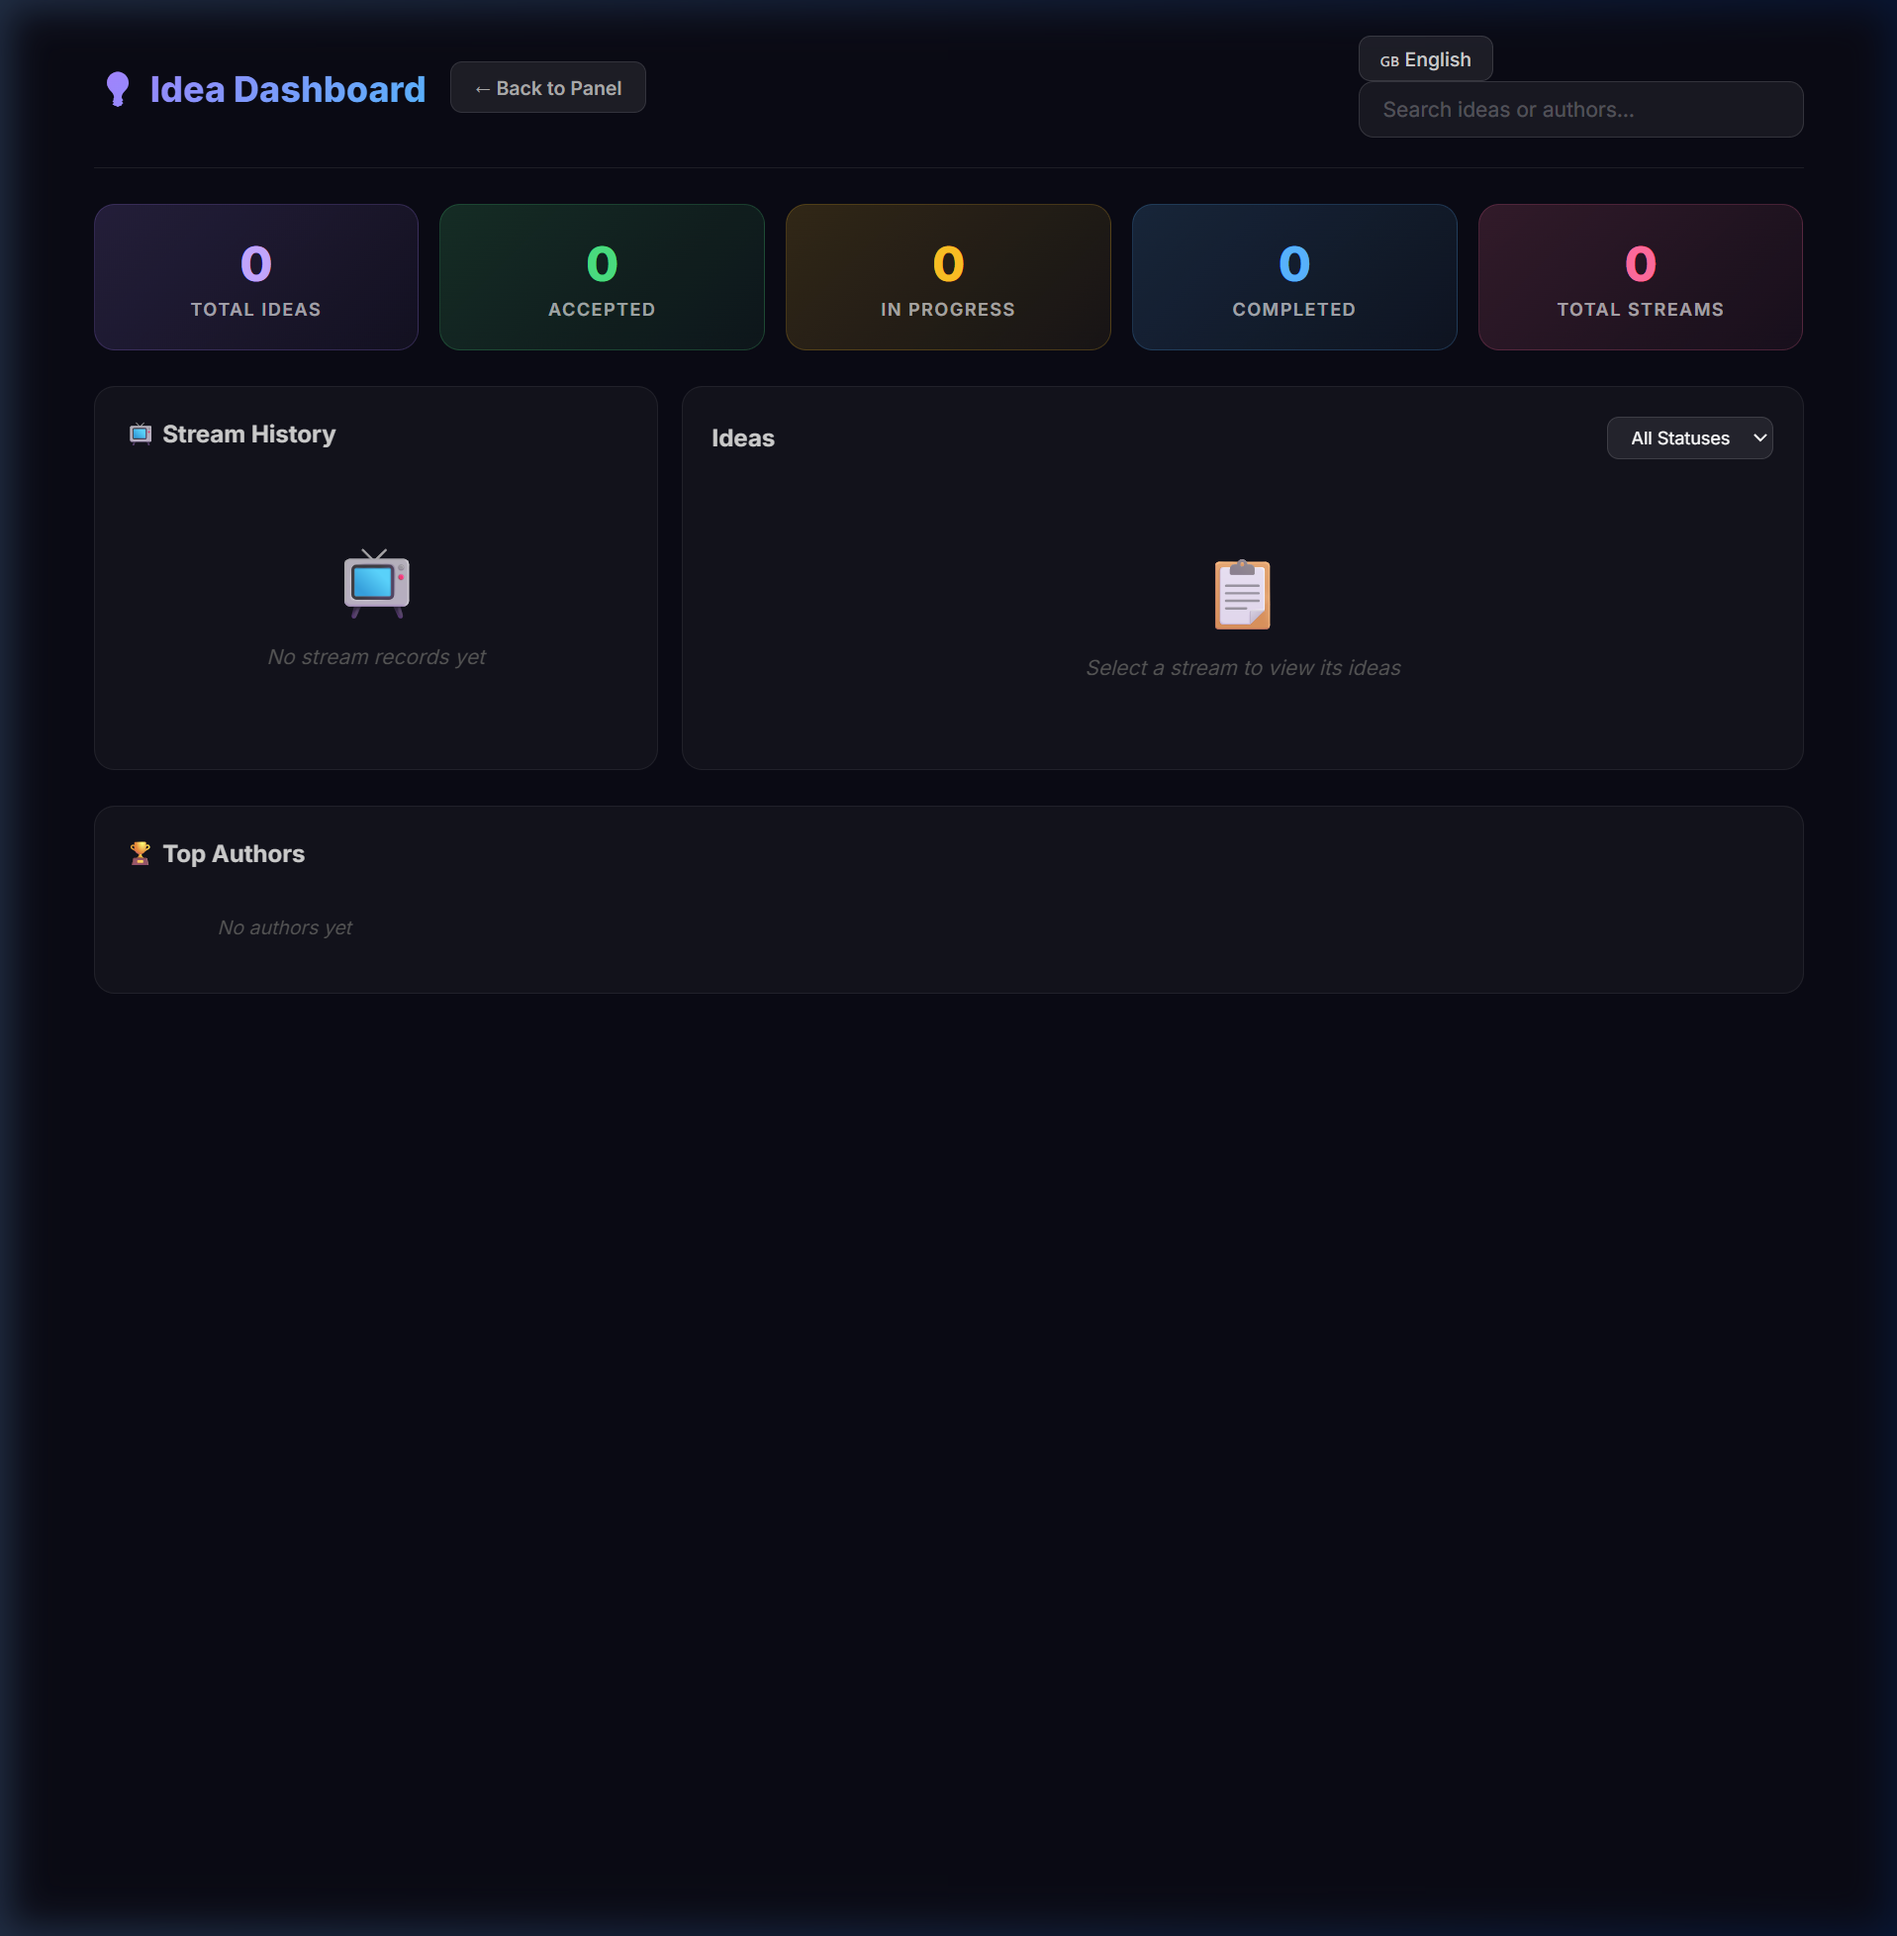
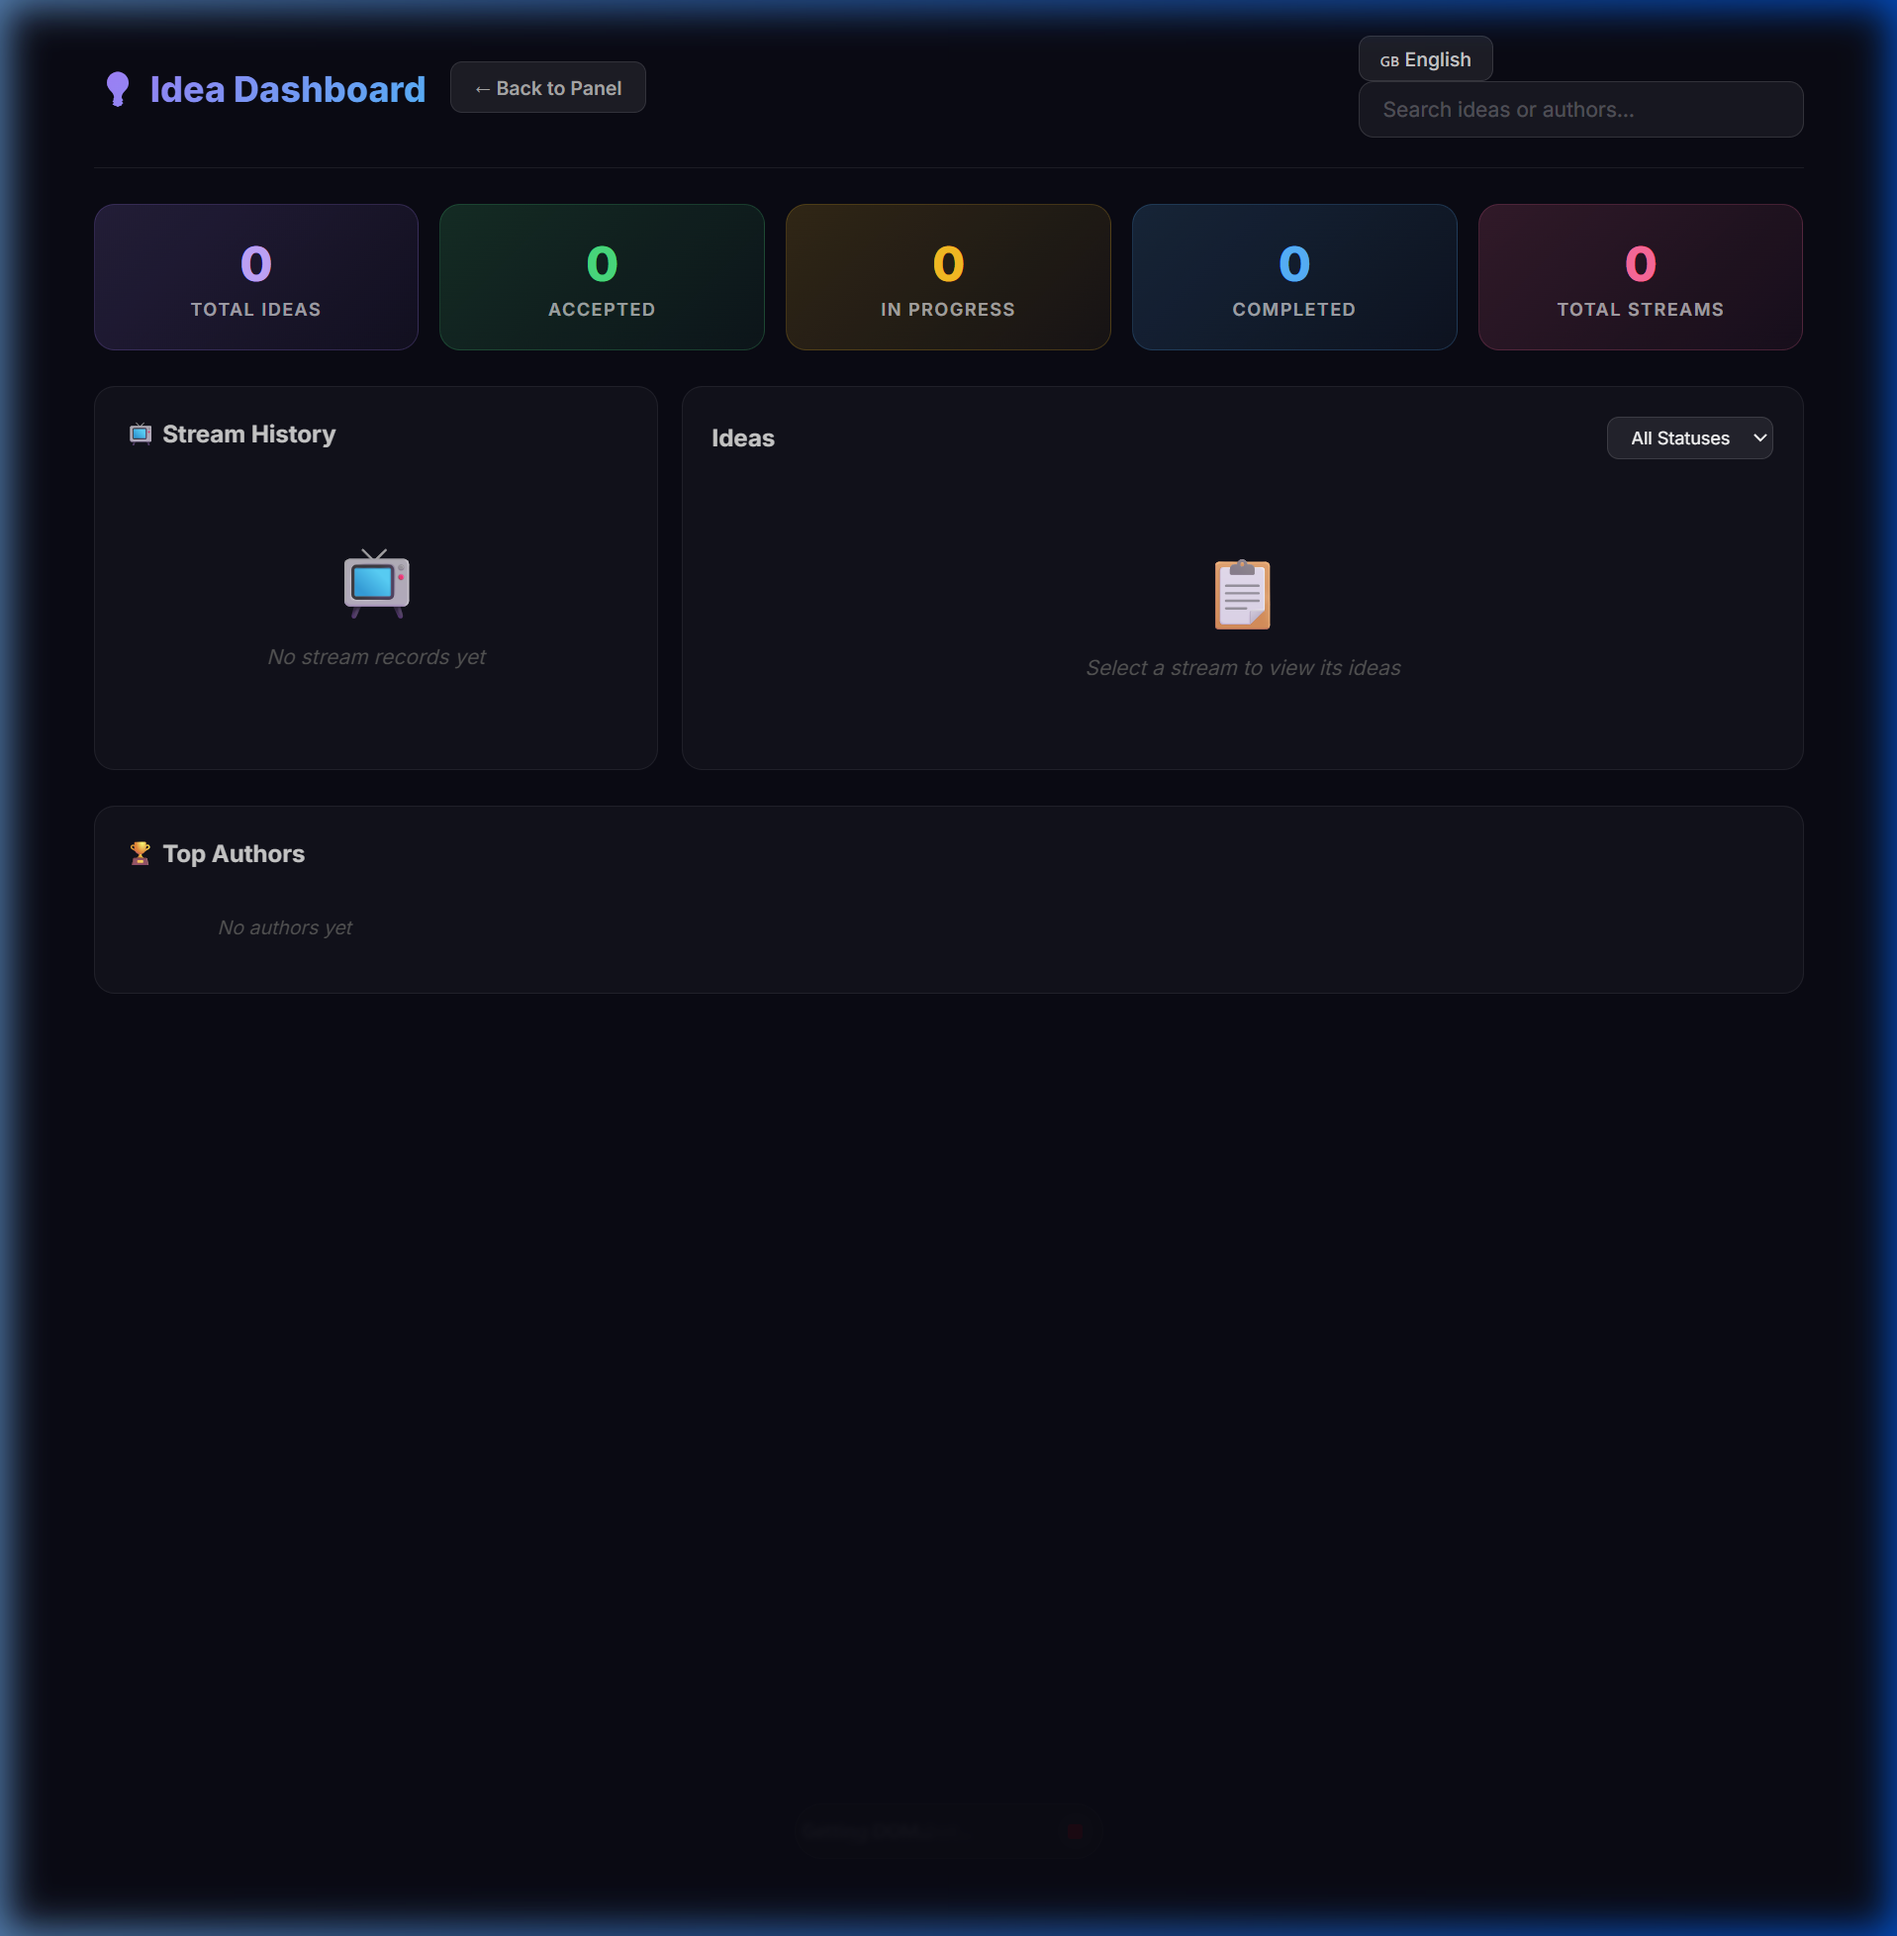
Clean up README layout, refresh panel/dashboard screenshots

Changed region(s): [[0.0, 0.0, 1.0, 1.0]]

diff --git a/README.md b/README.md
@@ -1,169 +1,105 @@
 <div align="center">
 
-# 💡 Fikir Overlay System
+# 💡 Fikir Overlay
 
-### Multi-Platform Live Stream Idea Overlay
+**Real-time idea overlay for live streams**
 
-[![Node.js](https://img.shields.io/badge/Node.js-18%2B-339933?style=for-the-badge&logo=node.js&logoColor=white)](https://nodejs.org)
-[![YouTube](https://img.shields.io/badge/YouTube-Chat-FF0000?style=for-the-badge&logo=youtube&logoColor=white)](#)
-[![Twitch](https://img.shields.io/badge/Twitch-Chat-9146FF?style=for-the-badge&logo=twitch&logoColor=white)](#)
-[![Kick](https://img.shields.io/badge/Kick-Chat-53FC18?style=for-the-badge&logo=kick&logoColor=black)](#)
-[![License](https://img.shields.io/badge/License-MIT-blue?style=for-the-badge)](#)
-[![Languages](https://img.shields.io/badge/UI_Languages-10-ff69b4?style=for-the-badge)](#-language-support)
+[![Node.js](https://img.shields.io/badge/Node.js-18+-339933?style=flat-square&logo=node.js&logoColor=white)](https://nodejs.org)
+[![Platforms](https://img.shields.io/badge/YouTube_·_Twitch_·_Kick-Chat-8B5CF6?style=flat-square)](#)
+[![Languages](https://img.shields.io/badge/10_Languages-UI-ff69b4?style=flat-square)](#-language-support)
+[![License](https://img.shields.io/badge/MIT-License-blue?style=flat-square)](#-license)
 
-**Viewers submit ideas in chat → Streamer manages them → Post-it overlay in OBS**
-
-*Supports 30+ chat trigger languages and 10 UI languages!*
-
----
+Viewers submit ideas in chat → you manage them from a control panel → accepted ideas appear as post-it notes on your OBS overlay.
 
 </div>
 
+---
+
+## 📸 Preview
+
+<table>
+<tr>
+<td width="50%">
+
+**🎛 Control Panel**
+<img src="screenshots/panel.png" alt="Control Panel">
+
+</td>
+<td width="50%">
+
+**📊 Dashboard**
+<img src="screenshots/dashboard.png" alt="Dashboard">
+
+</td>
+</tr>
+</table>
+
+---
+
 ## ✨ Features
 
-| Feature | Description |
-|---------|-------------|
-| 🌍 **30+ Chat Triggers** | `/idea`, `/fikir`, `/idée`, `/идея`, `/アイデア`, `/아이디어`... |
-| 🗣 **10 UI Languages** | English, Türkçe, Español, Português, Français, Deutsch, Русский, 日本語, 한국어, 中文 |
-| 📺 **Multi-Platform** | YouTube, Twitch, and Kick chat support |
-| 💾 **SQLite Database** | Persistent storage for ideas & session history |
-| ⏱ **Rate Limiting** | Max 3 ideas per user per minute (anti-spam) |
-| 🚫 **Profanity Filter** | English + Turkish bad word filtering |
-| 📋 **Status Tracking** | Pending → Accepted → In Progress → Completed |
-| 📊 **Web Dashboard** | Browse past streams, stats, search & filter |
-| 🎨 **OBS Overlay** | Draggable, resizable post-it notes with animations |
+- **Multi-platform** — YouTube, Twitch, and Kick chat support
+- **30+ chat triggers** — `/idea`, `/fikir`, `/idée`, `/идея`, `/アイデア` and more
+- **10 UI languages** — English, Türkçe, Español, Português, Français, Deutsch, Русский, 日本語, 한국어, 中文
+- **OBS overlay** — Draggable, resizable post-it notes with transparent background
+- **Status tracking** — Pending → Accepted → In Progress → Completed
+- **Dashboard** — Browse past streams, search ideas, view top authors
+- **Anti-spam** — Rate limiting (3/min per user) + profanity filter (EN/TR)
+- **Persistent storage** — SQLite database for all ideas and sessions
 
-## 📸 Screenshots
+---
 
-<details>
-<summary><b>🎛 Control Panel</b> — Manage ideas with platform tabs & status controls</summary>
-<br>
-<img src="screenshots/panel.png" alt="Control Panel" width="100%">
-</details>
+## 🚀 Quick Start
 
-<details>
-<summary><b>📊 Dashboard</b> — Past streams, statistics & search</summary>
-<br>
-<img src="screenshots/dashboard.png" alt="Dashboard" width="100%">
-</details>
-
-## 🚀 Getting Started
-
-> **Prerequisites:** [Node.js](https://nodejs.org) v18 or higher
+> **Requires:** [Node.js](https://nodejs.org) v18+
 
 ```bash
 git clone https://github.com/EEspinoso/fikir-overlay.git
 cd fikir-overlay
-```
-
-**Windows:** Double-click `start.bat` — it auto-installs and launches!
-
-**Manual:**
-```bash
 npm install
 node server.js
 ```
 
-## 🖥 OBS Setup Guide
+**Windows shortcut:** Double-click `start.bat` — auto-installs and launches.
 
-Follow these steps to add the idea overlay to your stream:
+Once running, open:
 
-### Step 1: Start the Server
+| Page | URL | Purpose |
+|------|-----|---------|
+| **Panel** | [localhost:3000/panel.html](http://localhost:3000/panel.html) | Manage ideas |
+| **Overlay** | [localhost:3000/overlay.html](http://localhost:3000/overlay.html) | OBS source |
+| **Dashboard** | [localhost:3000/dashboard.html](http://localhost:3000/dashboard.html) | Stats & history |
 
-Double-click `start.bat` or run `node server.js`. You'll see:
-```
-Panel:     http://localhost:3000/panel.html
-Overlay:   http://localhost:3000/overlay.html
-Dashboard: http://localhost:3000/dashboard.html
-```
+---
 
-### Step 2: Add Overlay to OBS
+## 🖥 OBS Setup
 
-1. Open **OBS Studio**
-2. In your Scene, click **+** under Sources → **Browser**
-3. Name it `Fikir Overlay` → click **OK**
-4. Set these properties:
+1. In OBS, add a **Browser** source
+2. Set URL to `http://localhost:3000/overlay.html`
+3. Set size to **1920 × 1080**
+4. Paste this **Custom CSS** for transparent background:
 
-| Property | Value |
-|----------|-------|
-| **URL** | `http://localhost:3000/overlay.html` |
-| **Width** | `1920` |
-| **Height** | `1080` |
-| **Custom CSS** | *(see below)* |
-
-5. Paste this in the **Custom CSS** field to make the background transparent:
 ```css
-body { background-color: rgba(0, 0, 0, 0); margin: 0px auto; overflow: hidden; }
+body { background-color: rgba(0, 0, 0, 0); margin: 0; overflow: hidden; }
 ```
 
-6. Click **OK** — the overlay will appear with a transparent background!
+5. Done! Accepted ideas will appear as post-it notes on your stream.
 
-### Step 3: Connect to Chat
+> **Tip:** Open the control panel on a second monitor or browser tab while streaming.
 
-1. Open the **Control Panel**: `http://localhost:3000/panel.html`
-2. Choose your platform tab (YouTube / Twitch / Kick)
-3. Enter your channel info and click **Connect**
-4. Ideas from chat will appear in the panel — accept or reject them!
-
-### Step 4: Manage Ideas
-
-- Accepted ideas appear as **post-it notes** on the overlay
-- Use **In Progress** / **Completed** buttons to track status
-- Post-its are **draggable** and **resizable** in the overlay
-- Right-click a post-it to remove it from the board
-
-> 💡 **Tip:** Open the panel in a separate browser window or on a second monitor while streaming!
+---
 
 ## 🗣 Language Support
 
-### UI Languages (10)
+**UI Languages (panel & dashboard)** — click the selector in the top-right corner:
 
-The control panel and dashboard support **10 languages** with a built-in selector:
+🇬🇧 English · 🇹🇷 Türkçe · 🇪🇸 Español · 🇧🇷 Português · 🇫🇷 Français · 🇩🇪 Deutsch · 🇷🇺 Русский · 🇯🇵 日本語 · 🇰🇷 한국어 · 🇨🇳 中文
 
-| | Language | | Language |
-|--|---------|--|---------|
-| 🇬🇧 | English | 🇩🇪 | Deutsch |
-| 🇹🇷 | Türkçe | 🇷🇺 | Русский |
-| 🇪🇸 | Español | 🇯🇵 | 日本語 |
-| 🇧🇷 | Português | 🇰🇷 | 한국어 |
-| 🇫🇷 | Français | 🇨🇳 | 中文 |
+**Chat triggers (30+ languages)** — viewers can type:
 
-Click the **language button** in the top-right corner of the Panel or Dashboard to switch. Your preference is saved automatically.
+`/idea` `/fikir` `/idée` `/ideia` `/idee` `/идея` `/アイデア` `/아이디어` `/创意` `/فكرة` `/fikra` and more...
 
-### Chat Trigger Languages (30+)
-
-Viewers can submit ideas in any of these languages:
-
-```
-/idea    /fikir    /idée     /ideia    /идея
-/idee    /アイデア   /아이디어   /创意     /fikri
-/فكرة    /ایده     /fikra    /ý tưởng  /ideya  ...and more!
-```
-
-## 📺 How It Works
-
-```
-Viewer types in chat:  /idea Add a battle royale mode
-                           ↓
-     ┌─────────────────────────────────────┐
-     │  Rate Limit ✓  Profanity Filter ✓   │
-     │  Duplicate Check ✓  Save to DB ✓    │
-     └─────────────────────────────────────┘
-                           ↓
-  ┌──────────┐    ┌──────────────┐    ┌─────────────┐
-  │  Panel   │ ←→ │   Server     │ ←→ │  Overlay    │
-  │ Accept ✅│    │  Socket.IO   │    │  Post-it 📌 │
-  │ Reject ❌│    │              │    │             │
-  └──────────┘    └──────────────┘    └─────────────┘
-```
-
-## 🔗 Pages
-
-| Page | URL | Description |
-|------|-----|-------------|
-| 🎛 **Panel** | `localhost:3000/panel.html` | Accept/reject ideas, manage status |
-| 🖥 **Overlay** | `localhost:3000/overlay.html` | Add as OBS Browser Source |
-| 📊 **Dashboard** | `localhost:3000/dashboard.html` | Past streams & statistics |
+---
 
 ## ⌨ Keyboard Shortcuts
 
@@ -173,37 +109,33 @@ Viewer types in chat:  /idea Add a battle royale mode
 | `Backspace` | Reject selected idea |
 | `↑` `↓` | Navigate between ideas |
 
-## 📁 Project Structure
+---
+
+## 📁 Structure
 
 ```
 fikir-overlay/
-├── server.js              # Express + Socket.IO server
+├── server.js           # Express + Socket.IO server
+├── start.bat           # Windows one-click launcher
 ├── lib/
-│   ├── db.js              # SQLite database module
-│   ├── ratelimit.js       # Sliding window rate limiter
-│   └── profanity.js       # EN + TR profanity filter
-├── public/
-│   ├── js/i18n.js         # 10-language translation system
-│   ├── css/               # Stylesheets
-│   ├── panel.html         # Streamer control panel
-│   ├── overlay.html       # OBS browser source
-│   └── dashboard.html     # History & statistics
-├── start.bat              # One-click Windows launcher
-└── package.json
+│   ├── db.js           # SQLite database
+│   ├── ratelimit.js    # Rate limiter
+│   └── profanity.js    # Profanity filter
+└── public/
+    ├── panel.html      # Control panel
+    ├── overlay.html    # OBS overlay
+    ├── dashboard.html  # Stats dashboard
+    ├── js/i18n.js      # Translation system
+    └── css/            # Stylesheets
 ```
-
-## 🤝 Contributing
-
-Pull requests are welcome! Feel free to open an issue for bugs or feature requests.
-
-## 📋 License
-
-This project is licensed under the [MIT License](LICENSE).
 
 ---
 
+## 📋 License
+
+[MIT](LICENSE)
+
 <div align="center">
-
-**Made with ❤ for streamers**
-
+<br>
+<sub>Made with ❤ for streamers</sub>
 </div>
